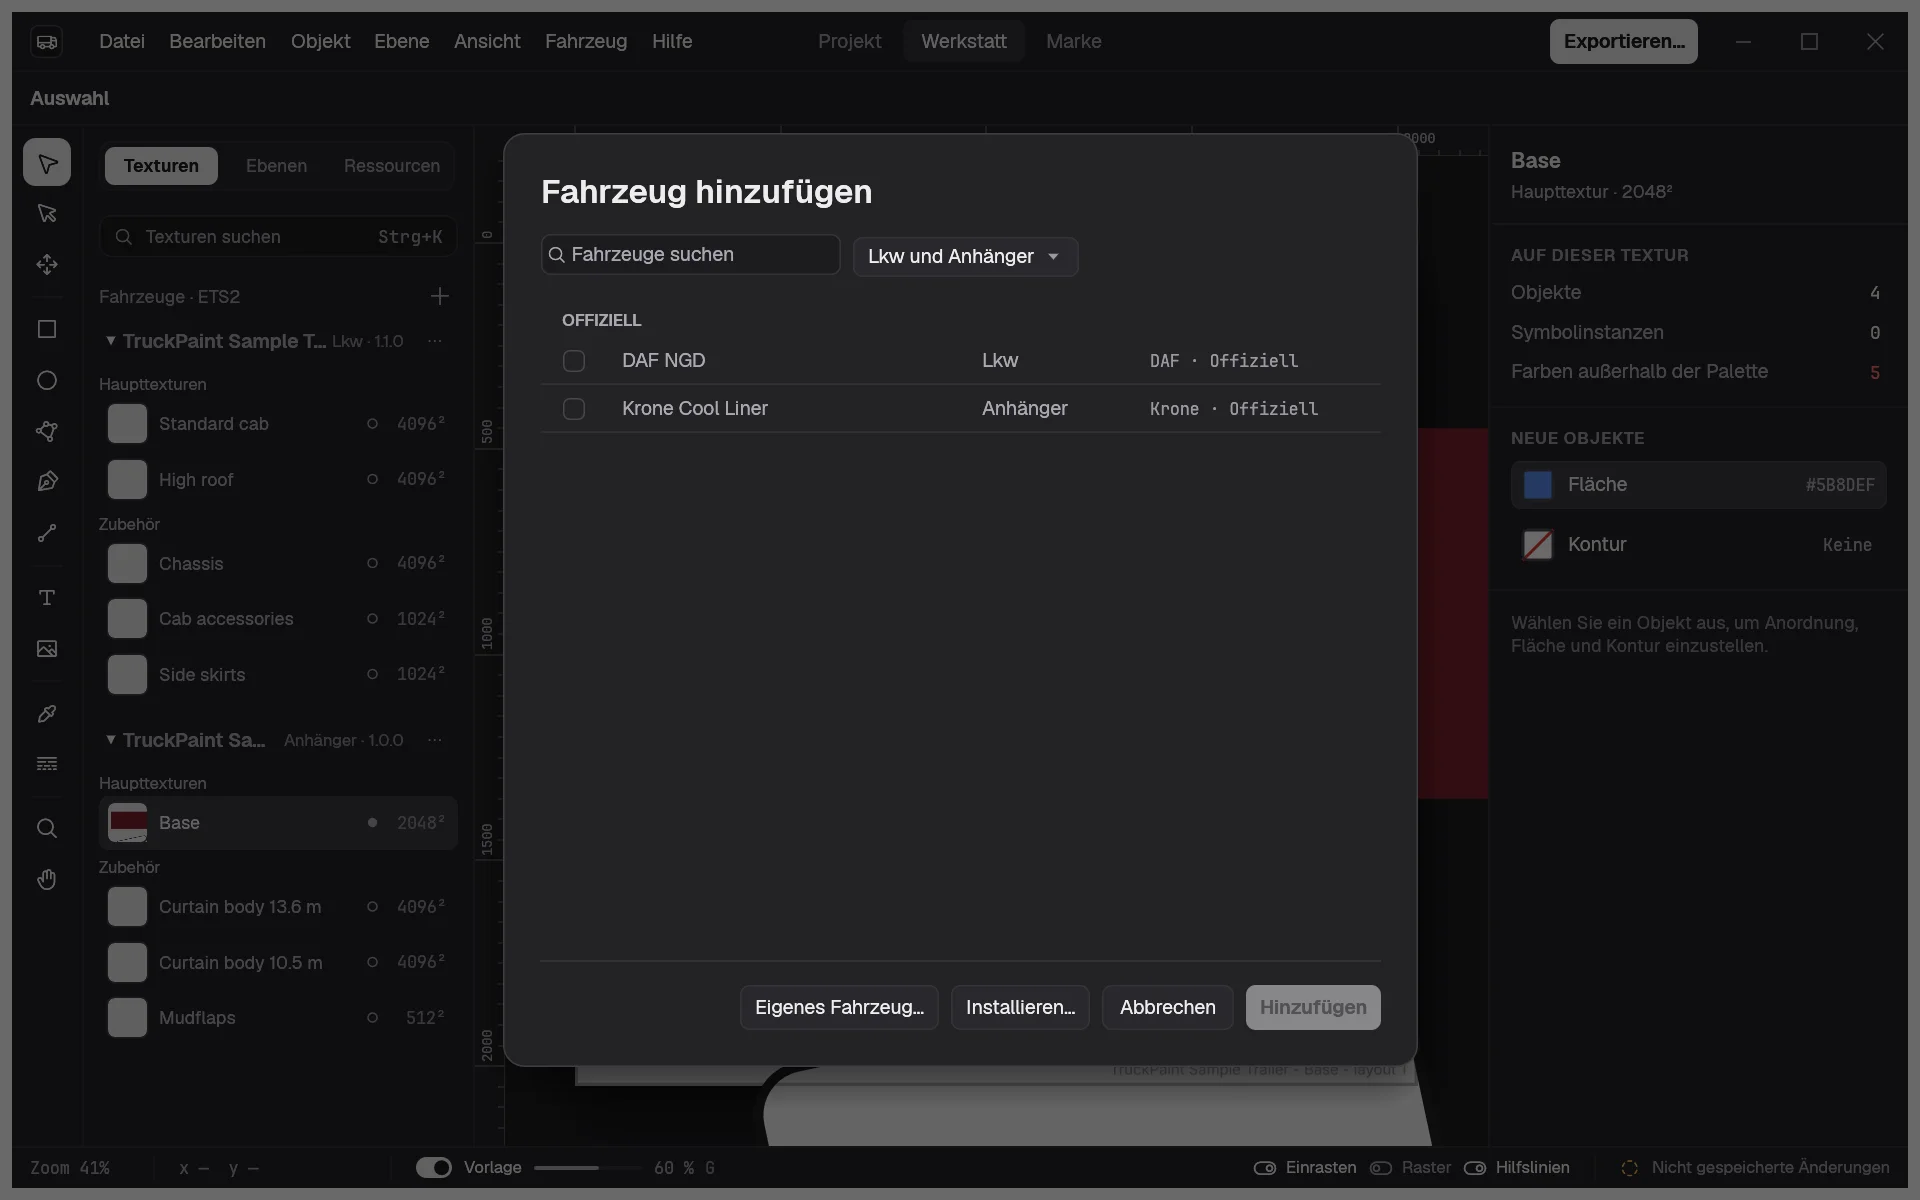
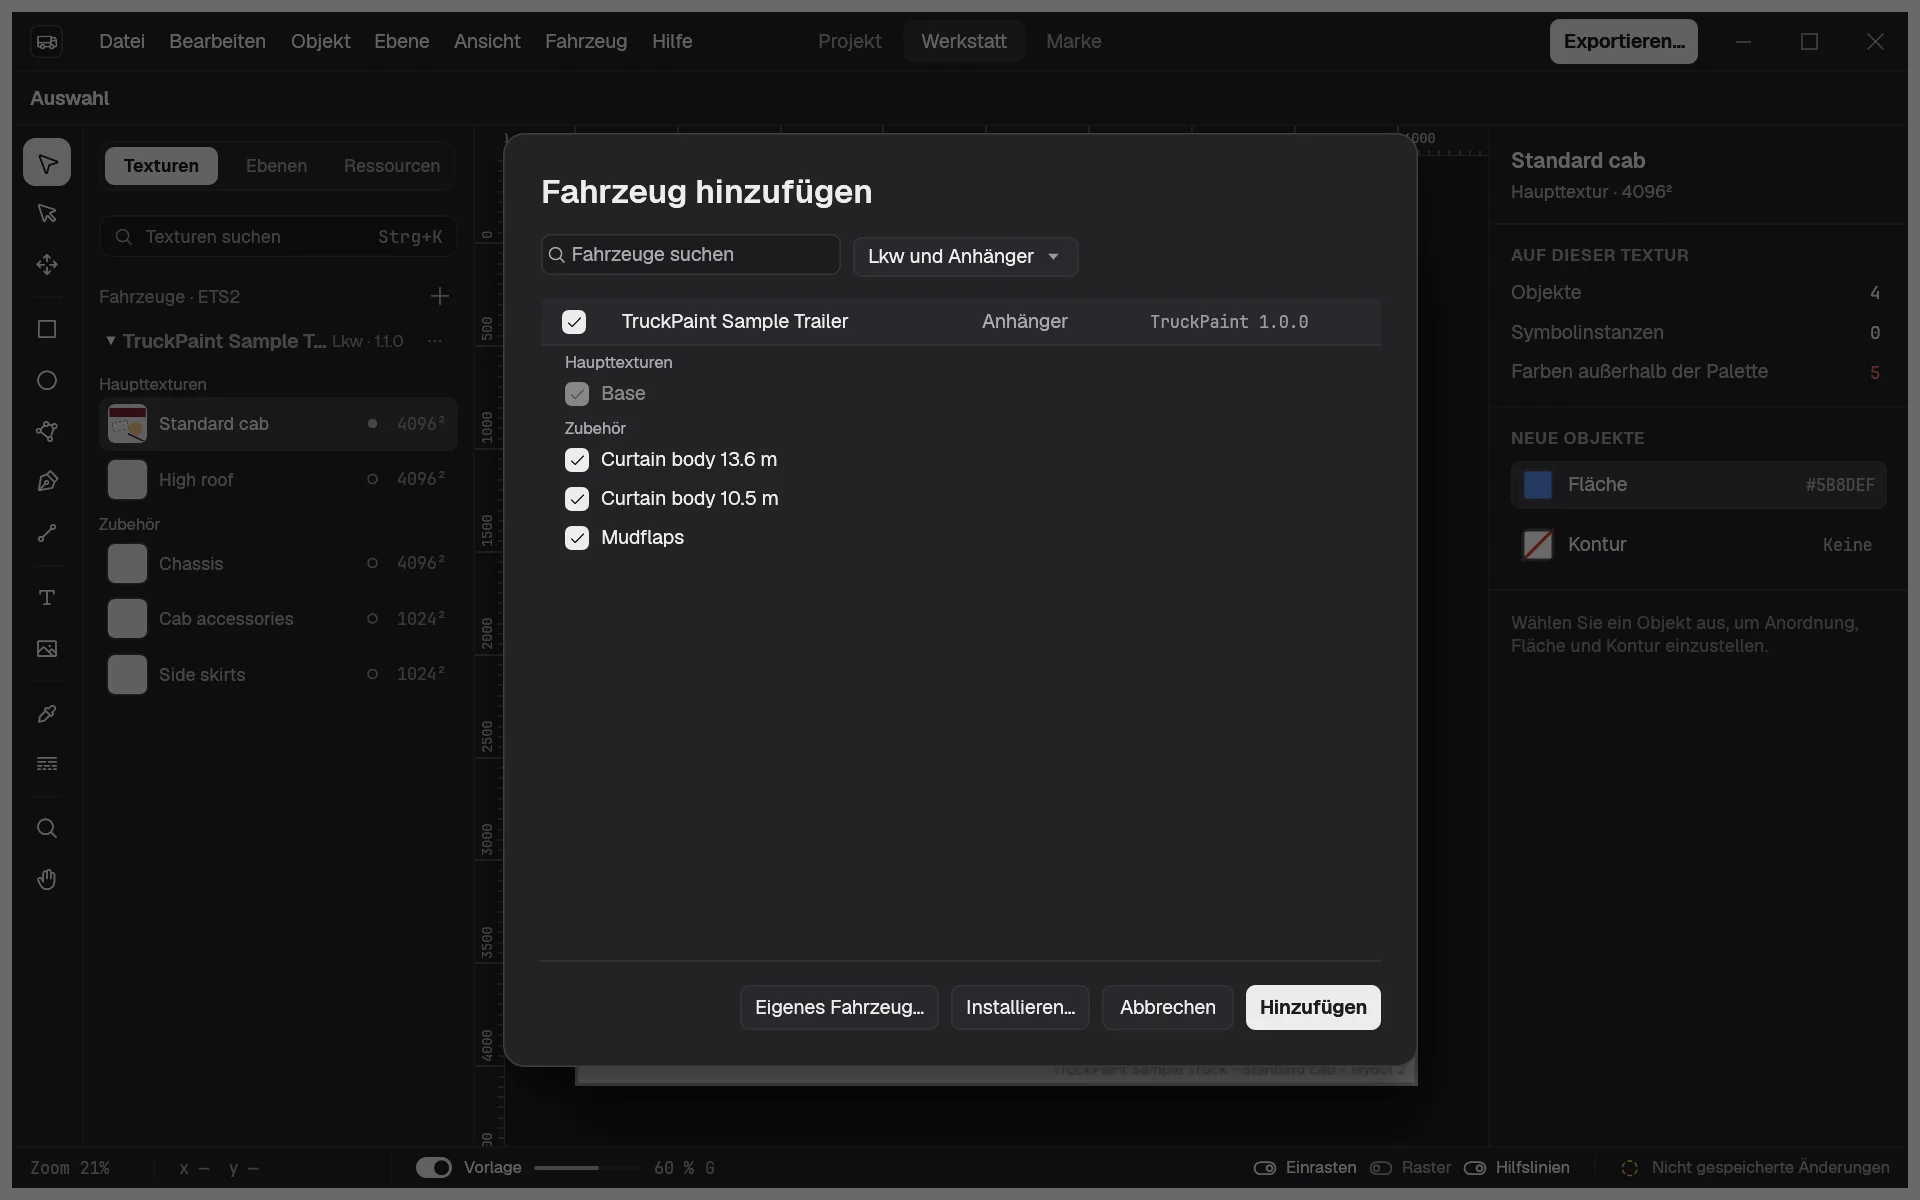
docs: Add Vehicle lists installed vehicles only (#87)
The fleet page and its screenshot still showed official vehicles listed
first. The screenshot now shows the installed sample trailer offered for
a project holding the truck, and the home page no longer promises
official trailers.

diff --git a/crates/tp-app/tests/doc_media.rs b/crates/tp-app/tests/doc_media.rs
@@ -405,21 +405,27 @@ fn modal(h: &mut H, modal: tp_app::state::Modal) {
 }
 
 /// The sample truck with both main textures and the sample trailer.
-fn sample_fleet(h: &mut H) {
-    use tp_app::vehicles::{SAMPLE_ID, SAMPLE_TRAILER_ID};
-    let load = |h: &H, id: &str, version: &str| {
-        h.state()
-            .vehicles
-            .load(id, &version.parse().unwrap())
-            .unwrap()
-    };
-    let truck = load(h, SAMPLE_ID, "1.1.0");
+fn load_sample(h: &H, id: &str, version: &str) -> tp_vehicles::Package {
+    h.state()
+        .vehicles
+        .load(id, &version.parse().unwrap())
+        .unwrap()
+}
+
+/// The sample truck alone, with both main textures.
+fn sample_truck_project(h: &mut H) {
+    let truck = load_sample(h, tp_app::vehicles::SAMPLE_ID, "1.1.0");
     let mut textures = tp_app::vehicle_project::default_textures(&truck.manifest);
     textures.insert(1, "high_roof".into());
     let project =
         tp_app::vehicle_project::fleet_project("ACE Logistics", &[(&truck, &textures)]).unwrap();
     common::open_project(h, project);
-    let trailer = load(h, SAMPLE_TRAILER_ID, "1.0.0");
+}
+
+/// The sample truck and the sample trailer.
+fn sample_fleet(h: &mut H) {
+    sample_truck_project(h);
+    let trailer = load_sample(h, tp_app::vehicles::SAMPLE_TRAILER_ID, "1.0.0");
     let all = tp_app::vehicle_project::default_textures(&trailer.manifest);
     h.state_mut()
         .workspace_mut()
@@ -533,7 +539,7 @@ fn section_vehicles() {
 fn section_fleet() {
     use tp_app::layout::{LeftTab, Space};
     use tp_app::state::Modal;
-    use tp_app::ui::vehicle_dialogs::{AddVehicleDialog, TexturesDialog};
+    use tp_app::ui::vehicle_dialogs::{AddVehicleDialog, TexturesDialog, VehicleChoice};
     for_each_language(|language| {
         let mut h = harness(language);
         sample_fleet(&mut h);
@@ -544,11 +550,19 @@ fn section_fleet() {
         space(&mut h, Space::Workshop);
         left_tab(&mut h, LeftTab::Textures);
         shot(&mut h, language, "fleet/textures-tab");
-        modal(
-            &mut h,
-            Modal::AddVehicle(AddVehicleDialog::for_game(Some("ets2"))),
-        );
-        shot(&mut h, language, "fleet/add-vehicle");
+        // Add Vehicle lists installed vehicles only: shown with the truck
+        // alone, so the installed sample trailer is offered, checked.
+        let mut add = harness(language);
+        sample_truck_project(&mut add);
+        demo_scene(&mut add);
+        let mut dialog = AddVehicleDialog::for_game(Some("ets2"));
+        let trailer = add
+            .state()
+            .vehicles
+            .get(tp_app::vehicles::SAMPLE_TRAILER_ID);
+        dialog.choices.push(VehicleChoice::of(trailer.unwrap()));
+        modal(&mut add, Modal::AddVehicle(dialog));
+        shot(&mut add, language, "fleet/add-vehicle");
         let dialog = {
             let p = &h.state().workspace().unwrap().project;
             TexturesDialog::new(p, &p.vehicles[0])
